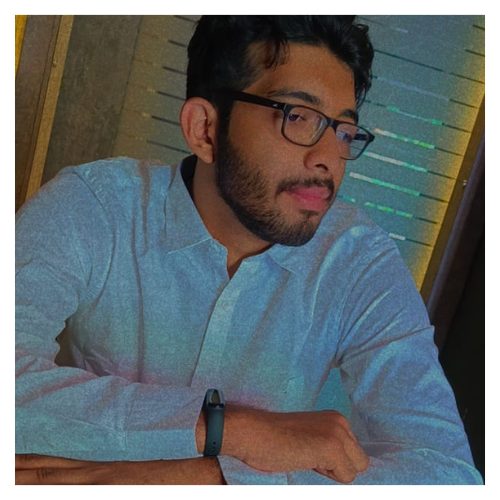
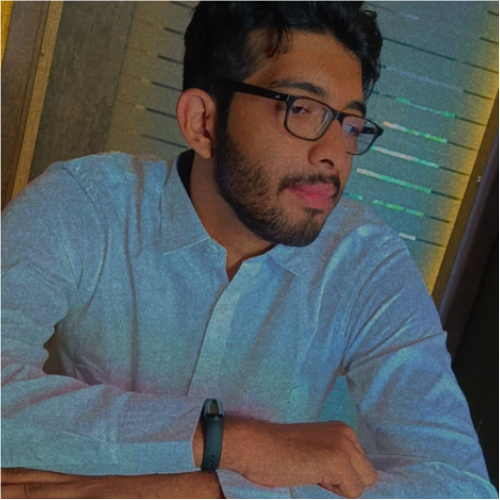
Working

diff --git a/src/WorkPages/Ridecell/Ridecell.css b/src/WorkPages/Ridecell/Ridecell.css
@@ -18,7 +18,9 @@
   width: 100vw;
   display: block;
 }
-
+.rc2{
+  margin-top: 2rem;
+}
 .rc1_left {
   display: inline-block;
   width: 50%;
@@ -111,11 +113,10 @@
 .work_dur {
   color: white;
   font-size: 1.2rem;
-  /* margin-top: 2rem; */
   font-family: "Cinzel", serif;
   text-align: center;
   margin-top: 0.5rem;
-  margin-bottom: 2.5rem;
+  margin-bottom: 4rem;
 }
 
 .work_calender {
@@ -142,10 +143,26 @@
   font-weight: 500;
   font-size: 1.2rem;
   border-radius: 50px;
-  box-shadow: 5px 2px 5px black;
+  box-shadow:5px 3px 3px  2px rgb(255, 255, 255);
 }
 
 .rc1 {
   height: fit-content;
   height: max-content;
+}
+
+.website_link{
+  margin-left: 50%;
+  transform: translateX(-50%);
+  padding: 0.5rem 1.5rem;
+  border-radius: 20px;
+  background-color: rgba(255, 255, 255, 0.774);
+  font-family: 'Cinzel';
+  font-size: 1rem;
+}
+
+.link_icon{
+  font-size: 1.25rem;
+  margin-right: .6rem;
+  transform: translateY(0.25rem);
 }

diff --git a/src/WorkPages/Santanet/Santanet.jsx b/src/WorkPages/Santanet/Santanet.jsx
@@ -4,7 +4,7 @@ import { loadFull } from "tsparticles";
 import santanet from "../../Assets/Work/santanet.png";
 import AnimatedCursor from "react-animated-cursor";
 import Particles from "react-tsparticles";
-import { AiFillCalendar } from "react-icons/ai";
+import { AiFillCalendar, AiOutlineLink } from "react-icons/ai";
 
 export default function Santanet() {
   const particlesInit = useCallback(async (engine) => {
@@ -146,6 +146,12 @@ export default function Santanet() {
                 application and meticulously curated courses on topics like
                 social awareness, STEM made fun, and sexual education.
               </p>
+              <a href="https://ridecell.com/" target={"_blank"}>
+                <button className="website_link">
+                  <AiOutlineLink className="link_icon" />
+                  Website
+                </button>
+              </a>
             </div>
           </div>
         </div>

diff --git a/src/WorkPages/Ridecell/Ridecell.jsx b/src/WorkPages/Ridecell/Ridecell.jsx
@@ -4,7 +4,7 @@ import { loadFull } from "tsparticles";
 import ridecell from "../../Assets/Work/ridecell.png";
 import AnimatedCursor from "react-animated-cursor";
 import Particles from "react-tsparticles";
-import { AiFillCalendar } from "react-icons/ai";
+import { AiFillCalendar, AiOutlineLink } from "react-icons/ai";
 
 export default function Ridecell() {
   const particlesInit = useCallback(async (engine) => {
@@ -146,6 +146,12 @@ export default function Ridecell() {
               dramatically streamlining fleet operations and opening up new
               revenue opportunities.
             </p>
+            <a href="https://ridecell.com/" target={"_blank"}>
+              <button className="website_link">
+                <AiOutlineLink className="link_icon" />
+                Website
+              </button>
+            </a>
           </div>
         </div>
       </div>

diff --git a/src/WorkPages/APT/Apt.jsx b/src/WorkPages/APT/Apt.jsx
@@ -1,7 +1,7 @@
 import React, { useCallback } from "react";
 import "../Ridecell/Ridecell.css";
 import { loadFull } from "tsparticles";
-import { AiFillCalendar } from "react-icons/ai";
+import { AiFillCalendar, AiOutlineLink } from "react-icons/ai";
 import apt from "../../Assets/Work/apt2.png";
 import "./Apt.css";
 import AnimatedCursor from "react-animated-cursor";
@@ -145,6 +145,12 @@ export default function Apt() {
                 workflows and automation, and testing automation with a
                 comprehensive testing suite.
               </p>
+              <a href="https://apicetech.in/" target={"_blank"}>
+                <button className="website_link">
+                  <AiOutlineLink className="link_icon" />
+                  Website
+                </button>
+              </a>
             </div>
           </div>
         </div>

diff --git a/src/Components/About/About.jsx b/src/Components/About/About.jsx
@@ -1,6 +1,6 @@
 import React from "react";
 import "./About.css";
-import me from "../../Assets/me.jpeg";
+import me from "../../Assets/me.png";
 import { MdSimCardDownload } from "react-icons/md";
 import resume from "../../Assets/SuryaanshRathinam_Resume.pdf";
 export default function About() {

diff --git a/src/Components/Work/Work.css b/src/Components/Work/Work.css
@@ -71,7 +71,7 @@
   color: white;
   font-size: 1.5rem;
   margin-top: 2rem;
-  font-family: "Cinzel", serif;
+  font-family: "Roboto", serif;
   text-align: center;
 }
 
